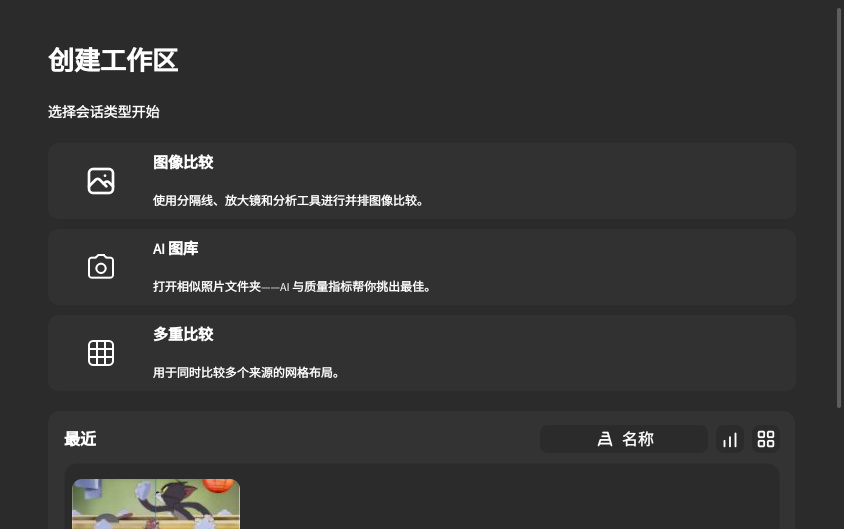
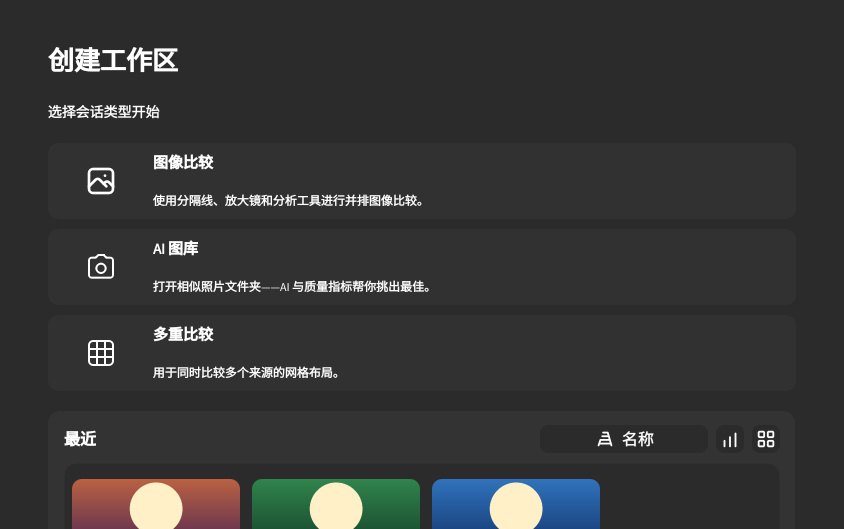
fix(help): deterministic capture surfaces — demo Recent shelf, hidden overlay scrollbars [task-help-figure-cjk-2026-10-21]

Changed region(s): [[0.0616, 0.9074, 0.7085, 1.0], [0.9858, 0.0, 1.0, 0.7864]]

diff --git a/src/devtools/capture_surface.py b/src/devtools/capture_surface.py
@@ -272,6 +272,7 @@ class CaptureSession:
         default_w: int,
         default_h: int,
         delay: int = 1200,
+        before_grab=None,
     ) -> Path:
         """pin -> show -> pump -> re-pin -> pump -> grab -> save.
 
@@ -283,6 +284,8 @@ class CaptureSession:
         h = self.height or default_h
         self.last_pin = (w, h)
         windowed = self.apply_size(widget, w, h, delay=delay)
+        if before_grab is not None:
+            before_grab(widget)
         pixmap = widget.grab()
         dest = self.out_dir / filename
         pixmap.save(str(dest))
@@ -462,9 +465,63 @@ class _FakeSessionContext:
         return None
 
 
+def _hide_overlay_scrollbars(widget) -> None:
+    """Force overlay scrollbars hidden before the grab.
+
+    ``MinimalistScrollBar`` auto-hides on an idle timer and glides its opacity;
+    a capture taken while the timer decides lands on either state, so the same
+    figure alternated between "no bar" and "bar visible" across runs (measured
+    as a 12 px right-edge strip and 7/8 drift cells). Hiding is layout-neutral
+    (overlay bar) and deterministic; the figure does not need a transient bar.
+    """
+    try:
+        from sli_ui_toolkit.ui.widgets.atomic.minimalist_scrollbar import (
+            MinimalistScrollBar,
+        )
+    except Exception:
+        return
+    for bar in widget.findChildren(MinimalistScrollBar):
+        try:
+            bar._idle_timer.stop()
+        except Exception:
+            pass
+        bar.hide()
+
+
+def _demo_recent_records(sess: CaptureSession):
+    """Deterministic stand-ins for the user's Recent shelf.
+
+    ``RecentProjectsPanel`` reads ``services.io.recent_projects`` from disk: a
+    raw capture embedded the user's real projects (private data in a shipped
+    help figure) and their thumbnails/mtimes changed between runs, which is
+    exactly what made the sha256 gate flaky. Demo covers come from
+    ``CaptureSession.make_samples()``.
+    """
+    from PySide6.QtGui import QPixmap
+
+    from services.io.recent_projects import RecentProjectRecord
+
+    opened = "2026-01-01T00:00:00+00:00"
+    kinds = ("image_compare", "multi_compare", "image_gallery")
+    records = []
+    for index, path in enumerate(sess.make_samples()[:3]):
+        records.append(
+            RecentProjectRecord(
+                path=str(path),
+                display_name=f"demo-{index + 1}.png",
+                opened_at=opened,
+                pinned_at=opened,
+                session_types=(kinds[index],),
+            )
+        )
+    return records, [QPixmap(str(path)) for path in sess.make_samples()[:3]]
+
+
 @_surface("session-picker", "Session Picker — tab-type chooser with demo sessions.")
 def _session_picker(sess: CaptureSession) -> None:
     from core.session_blueprints import SessionBlueprint
+    from tabs.session_picker.recent import cards as recent_cards
+    from tabs.session_picker.recent import panel as recent_panel
     from tabs.session_picker.widget import SessionPickerWidget
 
     context = _FakeSessionContext(
@@ -480,8 +537,44 @@ def _session_picker(sess: CaptureSession) -> None:
             ),
         ]
     )
-    widget = SessionPickerWidget(context=context)
-    sess.grab(widget, "session-picker.png", 1100, 760, delay=1200)
+    records, covers = _demo_recent_records(sess)
+    covers_by_path = {record.path: pixmap for record, pixmap in zip(records, covers)}
+    patched = [
+        (recent_panel, "list_recent_projects"),
+        (recent_panel, "get_recent_view_mode"),
+        (recent_panel, "get_recent_sort_mode"),
+        (recent_panel, "get_recent_sort_order"),
+        (recent_cards, "preview_for_record"),
+        (recent_cards, "prefetch_previews"),
+        (recent_cards, "format_relative_opened"),
+    ]
+    saved = [(target, name, getattr(target, name)) for target, name in patched]
+    try:
+        # Fixed records/prefs + a frozen relative label: no wall clock, no disk
+        # store, no user thumbnails in the frame.
+        recent_panel.list_recent_projects = lambda *a, **k: list(records)
+        recent_panel.get_recent_view_mode = lambda: "grid"
+        recent_panel.get_recent_sort_mode = lambda: "name"
+        recent_panel.get_recent_sort_order = lambda: "asc"
+        recent_cards.preview_for_record = lambda record: covers_by_path.get(str(record.path))
+        recent_cards.prefetch_previews = lambda records, budget=0: 0
+        recent_cards.format_relative_opened = (
+            lambda opened_at, translate=None: (
+                translate("recent.relative.just_now", "just now") if translate else "just now"
+            )
+        )
+        widget = SessionPickerWidget(context=context)
+        sess.grab(
+            widget,
+            "session-picker.png",
+            1100,
+            760,
+            delay=1200,
+            before_grab=_hide_overlay_scrollbars,
+        )
+    finally:
+        for target, name, value in saved:
+            setattr(target, name, value)
 
 
 @_surface("onboarding", "Onboarding overlay — first-run mode picker.")

diff --git a/src/devtools/help_figures.py b/src/devtools/help_figures.py
@@ -394,8 +394,8 @@ class _RecordingSession(capture_surface.CaptureSession):
         super().__init__(*args, **kwargs)
         self.saved: list[Path] = []
 
-    def grab(self, widget, filename, default_w, default_h, delay: int = 1200) -> Path:
-        path = super().grab(widget, filename, default_w, default_h, delay=delay)
+    def grab(self, widget, filename, default_w, default_h, delay: int = 1200, **kwargs) -> Path:
+        path = super().grab(widget, filename, default_w, default_h, delay=delay, **kwargs)
         self.saved.append(path)
         return path
 

diff --git a/docs/dev/SCREENSHOTS.md b/docs/dev/SCREENSHOTS.md
@@ -145,6 +145,13 @@ python src/devtools/help_figures.py --all --write-manifest       # record baseli
   fallback is not deterministic, and a runner without a CJK font renders tofu.
   Both bundled fonts ship their OFL texts next to the files
   (`LICENSE-SourceSans3.txt`, `LICENSE-NotoSansSC.txt`).
+- **User state never enters a frame.** A capture surface must be a product
+  surface, not the maintainer's session. `session-picker`'s Recent shelf reads
+  `services.io.recent_projects` from disk, so a raw grab embedded the user's
+  real projects (private data in a shipped figure) and their changed
+  thumbnails/mtimes made the sha256 gate flaky. The devtool now injects demo
+  records with sample covers and a frozen relative label; nothing on the shelf
+  comes from the store.
 - **A JPEG destination is converted from the grab.** Captures are PNG; when the
   shipped asset is `.jpg` the generator converts the final frame (`quality=95`,
   `subsampling=0`, Pillow is pinned) so the installed bytes — and therefore the
